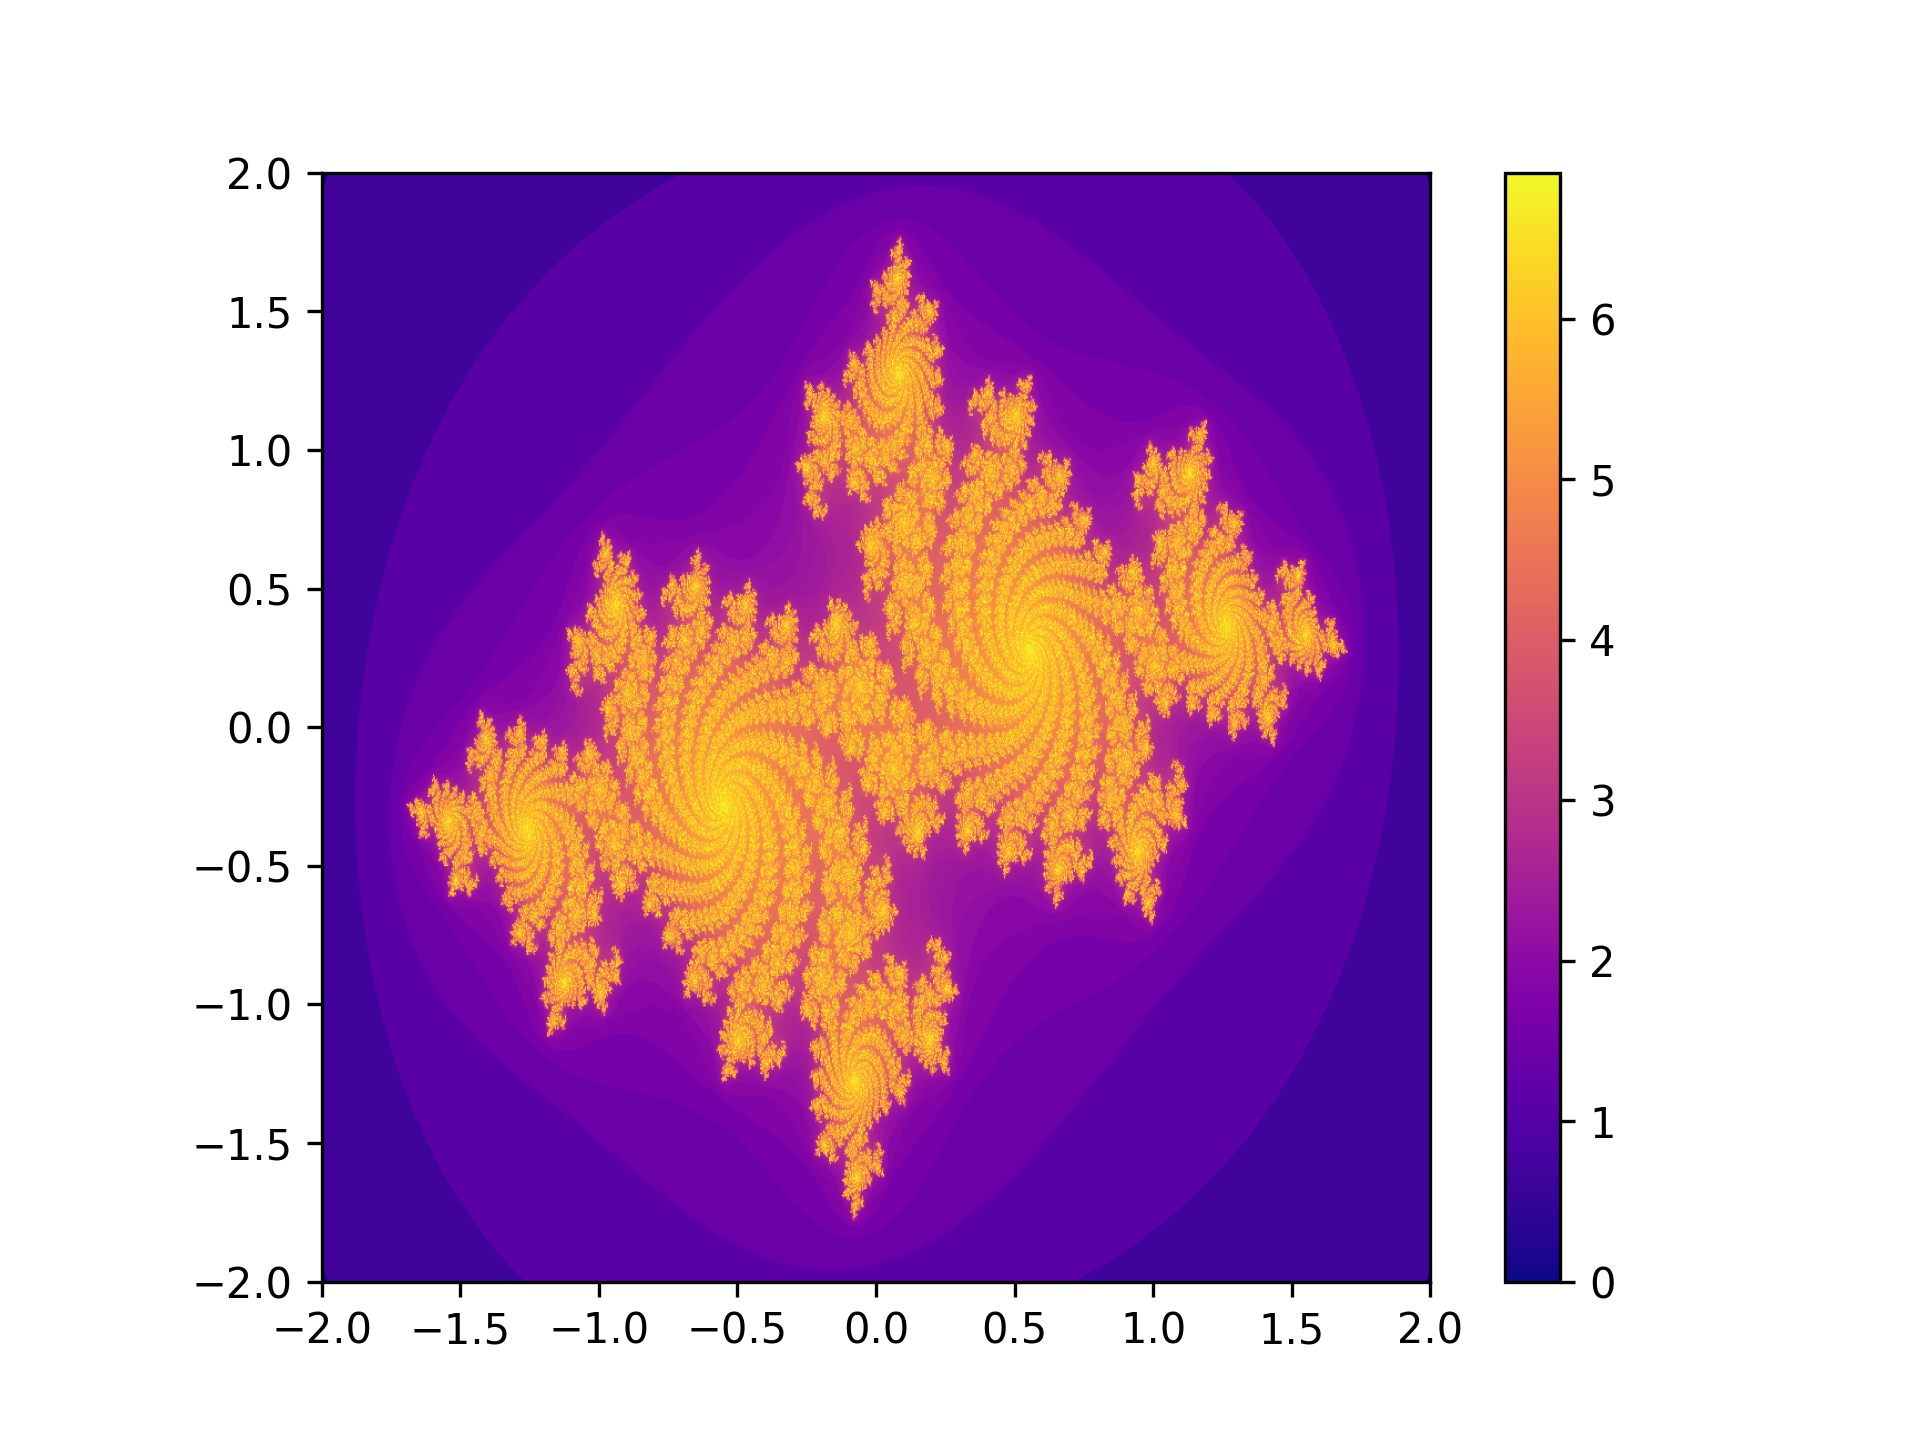
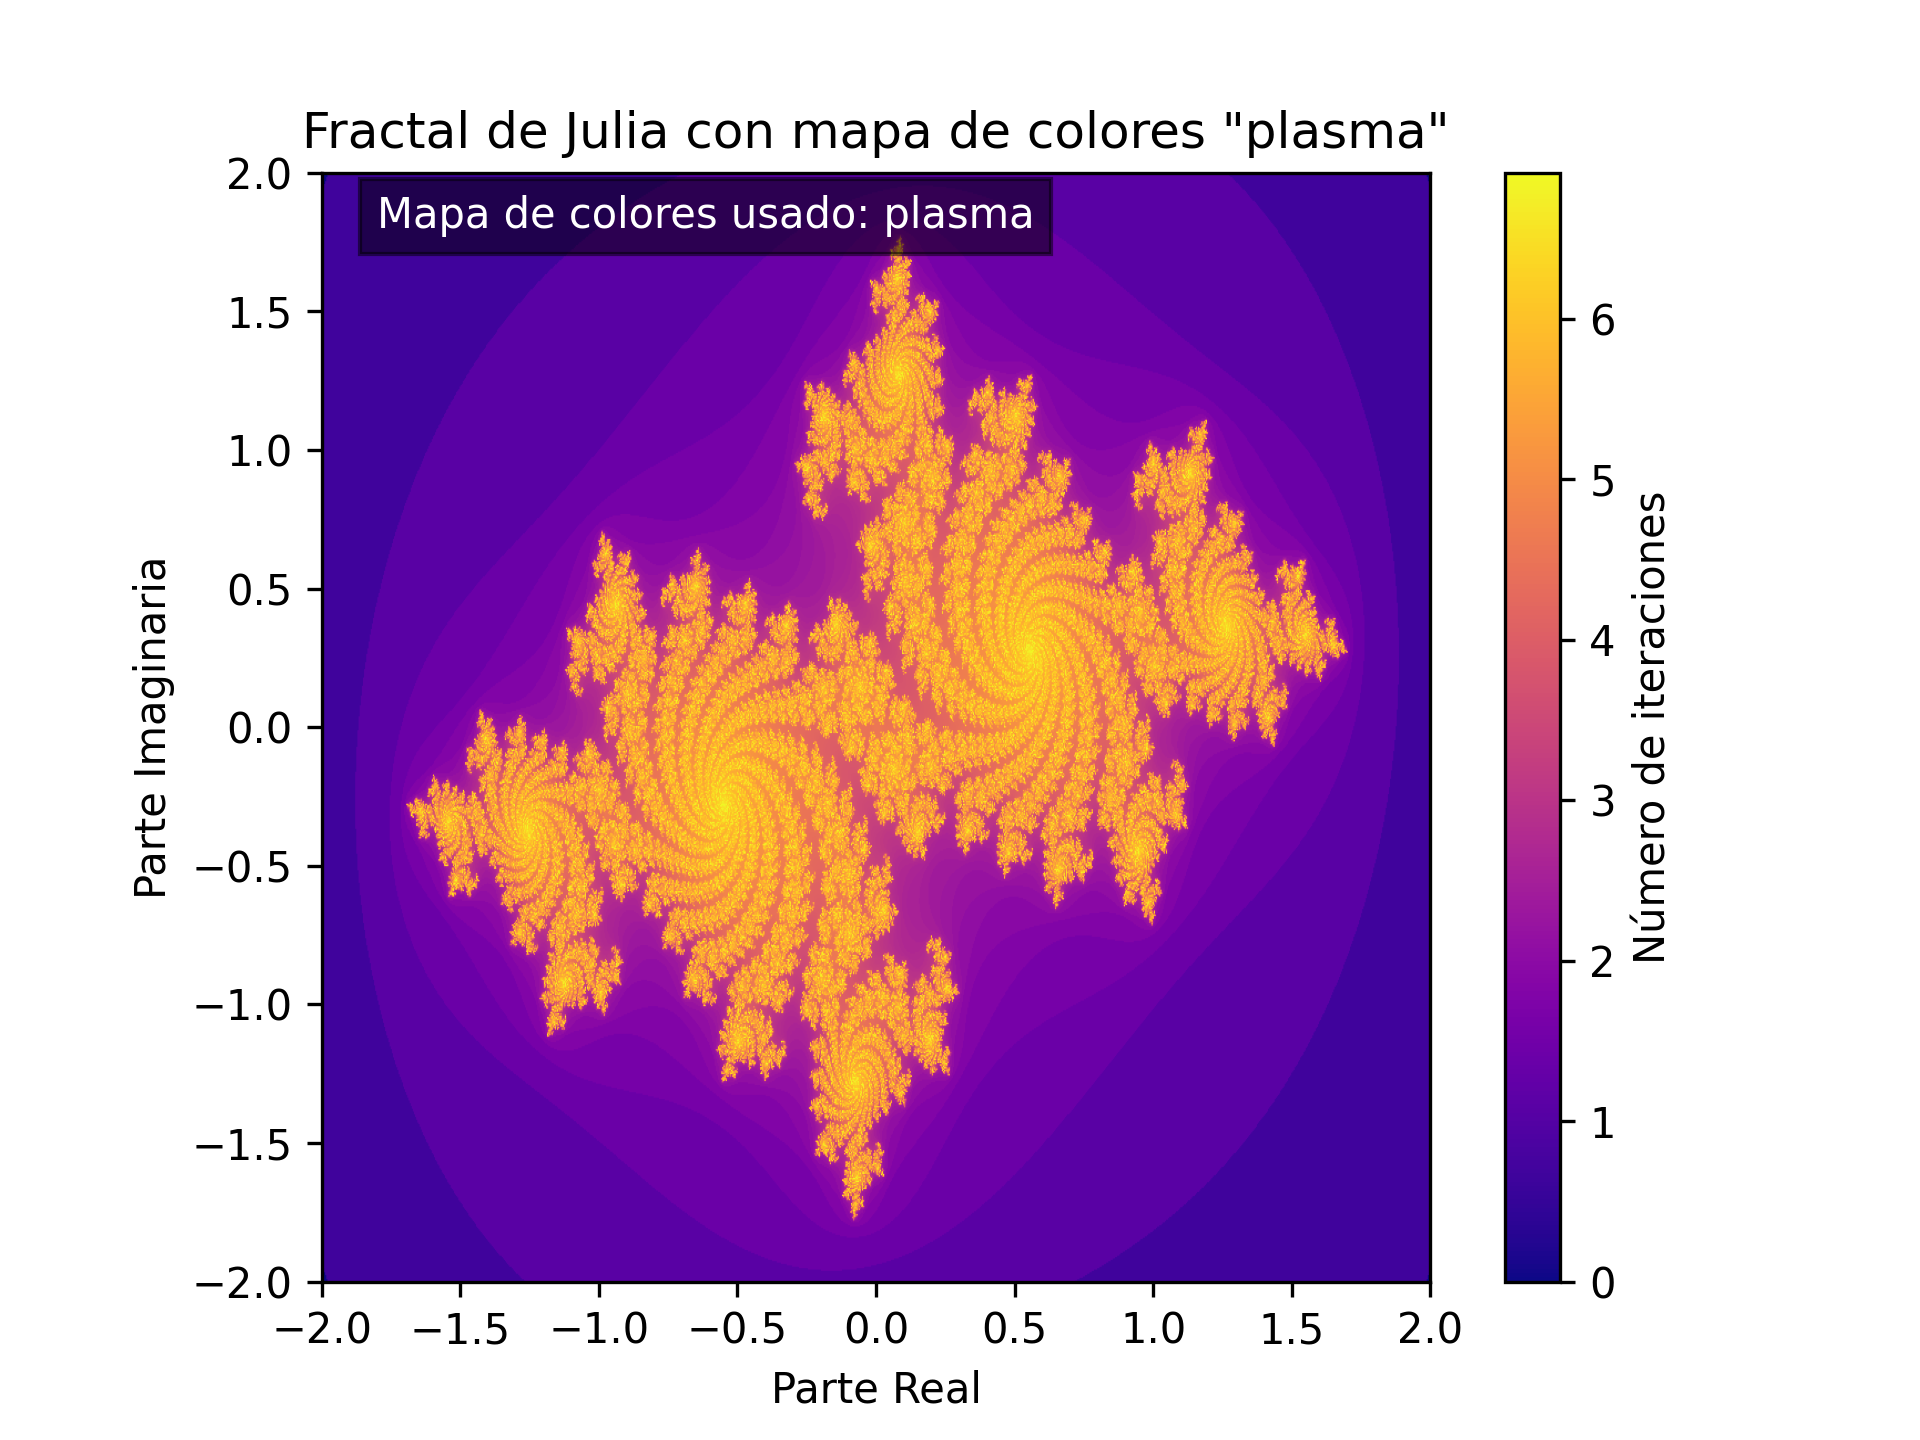
implentacionUsoDeCores :tata:

diff --git a/fractal_julia_parallel.py b/fractal_julia_parallel.py
@@ -1,8 +1,9 @@
 import numpy as np
 import matplotlib.pyplot as plt
-from time import time
+from time import time, sleep
 import psutil
 from multiprocessing import Pool, cpu_count
+import threading
 import matplotlib
 import sys
 
@@ -17,6 +18,18 @@ WIDTH = 1000
 HEIGHT = 800
 MAX_ITER = 1000
 C = complex(-0.7, 0.27015)
+
+# Lista para almacenar el uso de los núcleos a lo largo del tiempo
+cpu_usage_history = []
+
+def monitor_cpu_usage():
+    """Función en un hilo separado para monitorear el uso de CPU."""
+    while monitor_running:
+        usage = psutil.cpu_percent(interval=0.5, percpu=True)
+        cpu_usage_history.append(usage)
+        # Imprimir el uso de CPU de cada núcleo
+        print(f"Uso de CPU por núcleo: {usage}")
+        sleep(0.5)
 
 def julia_recursive(z, c, max_iter, current_iter=0):
     """Calcula recursivamente el número de iteraciones para un punto del conjunto de Julia."""
@@ -40,7 +53,9 @@ def compute_row(y):
     return row
 
 def generate_julia_parallel():
-    with Pool(processes=cpu_count()) as pool:
+    # Utiliza todos los núcleos disponibles para calcular el fractal
+    num_cores = cpu_count()
+    with Pool(processes=num_cores) as pool:
         image = pool.map(compute_row, range(HEIGHT))
     return np.array(image)
 
@@ -53,17 +68,25 @@ if __name__ == "__main__":
     # Medir recursos antes de ejecutar el programa
     mem_usage_before = process.memory_info().rss / (1024 ** 2)
 
+    # Configurar y lanzar el hilo de monitoreo de CPU
+    monitor_running = True
+    monitor_thread = threading.Thread(target=monitor_cpu_usage)
+    monitor_thread.start()
+
+    # Generar el fractal
     start_time = time()
     image = generate_julia_parallel()
     end_time = time()
 
+    # Detener el monitoreo
+    monitor_running = False
+    monitor_thread.join()
+
     # Medir recursos después de ejecutar el programa
-    cpu_usage_after = process.cpu_percent(interval=0.1)
     mem_usage_after = process.memory_info().rss / (1024 ** 2)
 
     # Mostrar resultados
     print(f"Tiempo de ejecución: {end_time - start_time:.2f} segundos")
-    print(f"Uso de CPU del proceso: {cpu_usage_after:.2f}%")
     print(f"Uso de memoria antes: {mem_usage_before:.2f} MB")
     print(f"Uso de memoria después: {mem_usage_after:.2f} MB")
 
@@ -72,6 +95,14 @@ if __name__ == "__main__":
 
     # Generar la imagen con colores ajustados
     plt.imshow(image, cmap="plasma", extent=[-2, 2, -2, 2])
-    plt.colorbar()
+    plt.colorbar(label='Número de iteraciones')
+    plt.title('Fractal de Julia con mapa de colores "plasma"')
+    plt.xlabel('Parte Real')
+    plt.ylabel('Parte Imaginaria')
+
+    # Añadir una anotación sobre el mapa de colores
+    plt.annotate('Mapa de colores usado: plasma', xy=(-1.8, 1.8), color='white', fontsize=10,
+                 bbox=dict(facecolor='black', alpha=0.5))
+
     plt.savefig("julia_fractal_parallel_recursive_safe.png", dpi=300)
     print("Imagen guardada como 'julia_fractal_parallel_recursive_safe.png'")

diff --git a/fractal_julia_secuencial.py b/fractal_julia_secuencial.py
@@ -1,7 +1,8 @@
 import numpy as np
 import matplotlib.pyplot as plt
-from time import time
+from time import time, sleep
 import psutil
+import threading
 import matplotlib
 import sys
 
@@ -15,6 +16,18 @@ HEIGHT = 800
 MAX_ITER = 1000
 C = complex(-0.7, 0.27015)  # Número complejo fijo para el conjunto de Julia
 
+# Lista para almacenar el uso de los núcleos a lo largo del tiempo
+cpu_usage_history = []
+
+def monitor_cpu_usage():
+    """Función en un hilo separado para monitorear el uso de CPU."""
+    while monitor_running:
+        usage = psutil.cpu_percent(interval=0.5, percpu=True)
+        cpu_usage_history.append(usage)
+        # Imprimir el uso de CPU de cada núcleo
+        print(f"Uso de CPU por núcleo: {usage}")
+        sleep(0.5)
+
 def julia_recursive(z, c, max_iter, current_iter=0):
     """Calcula recursivamente el número de iteraciones, limitando la profundidad."""
     if abs(z) > 2 or current_iter >= max_iter:
@@ -25,7 +38,6 @@ def julia_recursive(z, c, max_iter, current_iter=0):
             current_iter += 1
         return current_iter
     return julia_recursive(z * z + c, c, max_iter, current_iter + 1)
-
 
 def generate_julia(width, height, max_iter, c):
     image = np.zeros((height, width))
@@ -41,13 +53,26 @@ def generate_julia(width, height, max_iter, c):
 if __name__ == "__main__":
     process = psutil.Process()
 
+    # Configurar la afinidad del proceso a un solo núcleo (núcleo 0 en este caso)
+    process.cpu_affinity([0])
+
     # Medir recursos antes de ejecutar el programa
     process.cpu_percent()
     mem_usage_before = process.memory_info().rss / (1024 ** 2)
 
+    # Configurar y lanzar el hilo de monitoreo de CPU
+    monitor_running = True
+    monitor_thread = threading.Thread(target=monitor_cpu_usage)
+    monitor_thread.start()
+
+    # Generar el fractal
     start_time = time()
     image = generate_julia(WIDTH, HEIGHT, MAX_ITER, C)
     end_time = time()
+
+    # Detener el monitoreo
+    monitor_running = False
+    monitor_thread.join()
 
     # Medir recursos después de ejecutar el programa
     cpu_usage_after = process.cpu_percent(interval=0.1)
@@ -65,5 +90,5 @@ if __name__ == "__main__":
     # Generar la imagen con colores ajustados
     plt.imshow(image, cmap="plasma", extent=[-2, 2, -2, 2])
     plt.colorbar()
-    plt.savefig("julia_fractal_recursive.png", dpi=300)
-    print("Imagen guardada como 'julia_fractal_recursive.png'")
+    plt.savefig("julia_fractal_recursive_single_core.png", dpi=300)
+    print("Imagen guardada como 'julia_fractal_recursive_single_core.png'")
